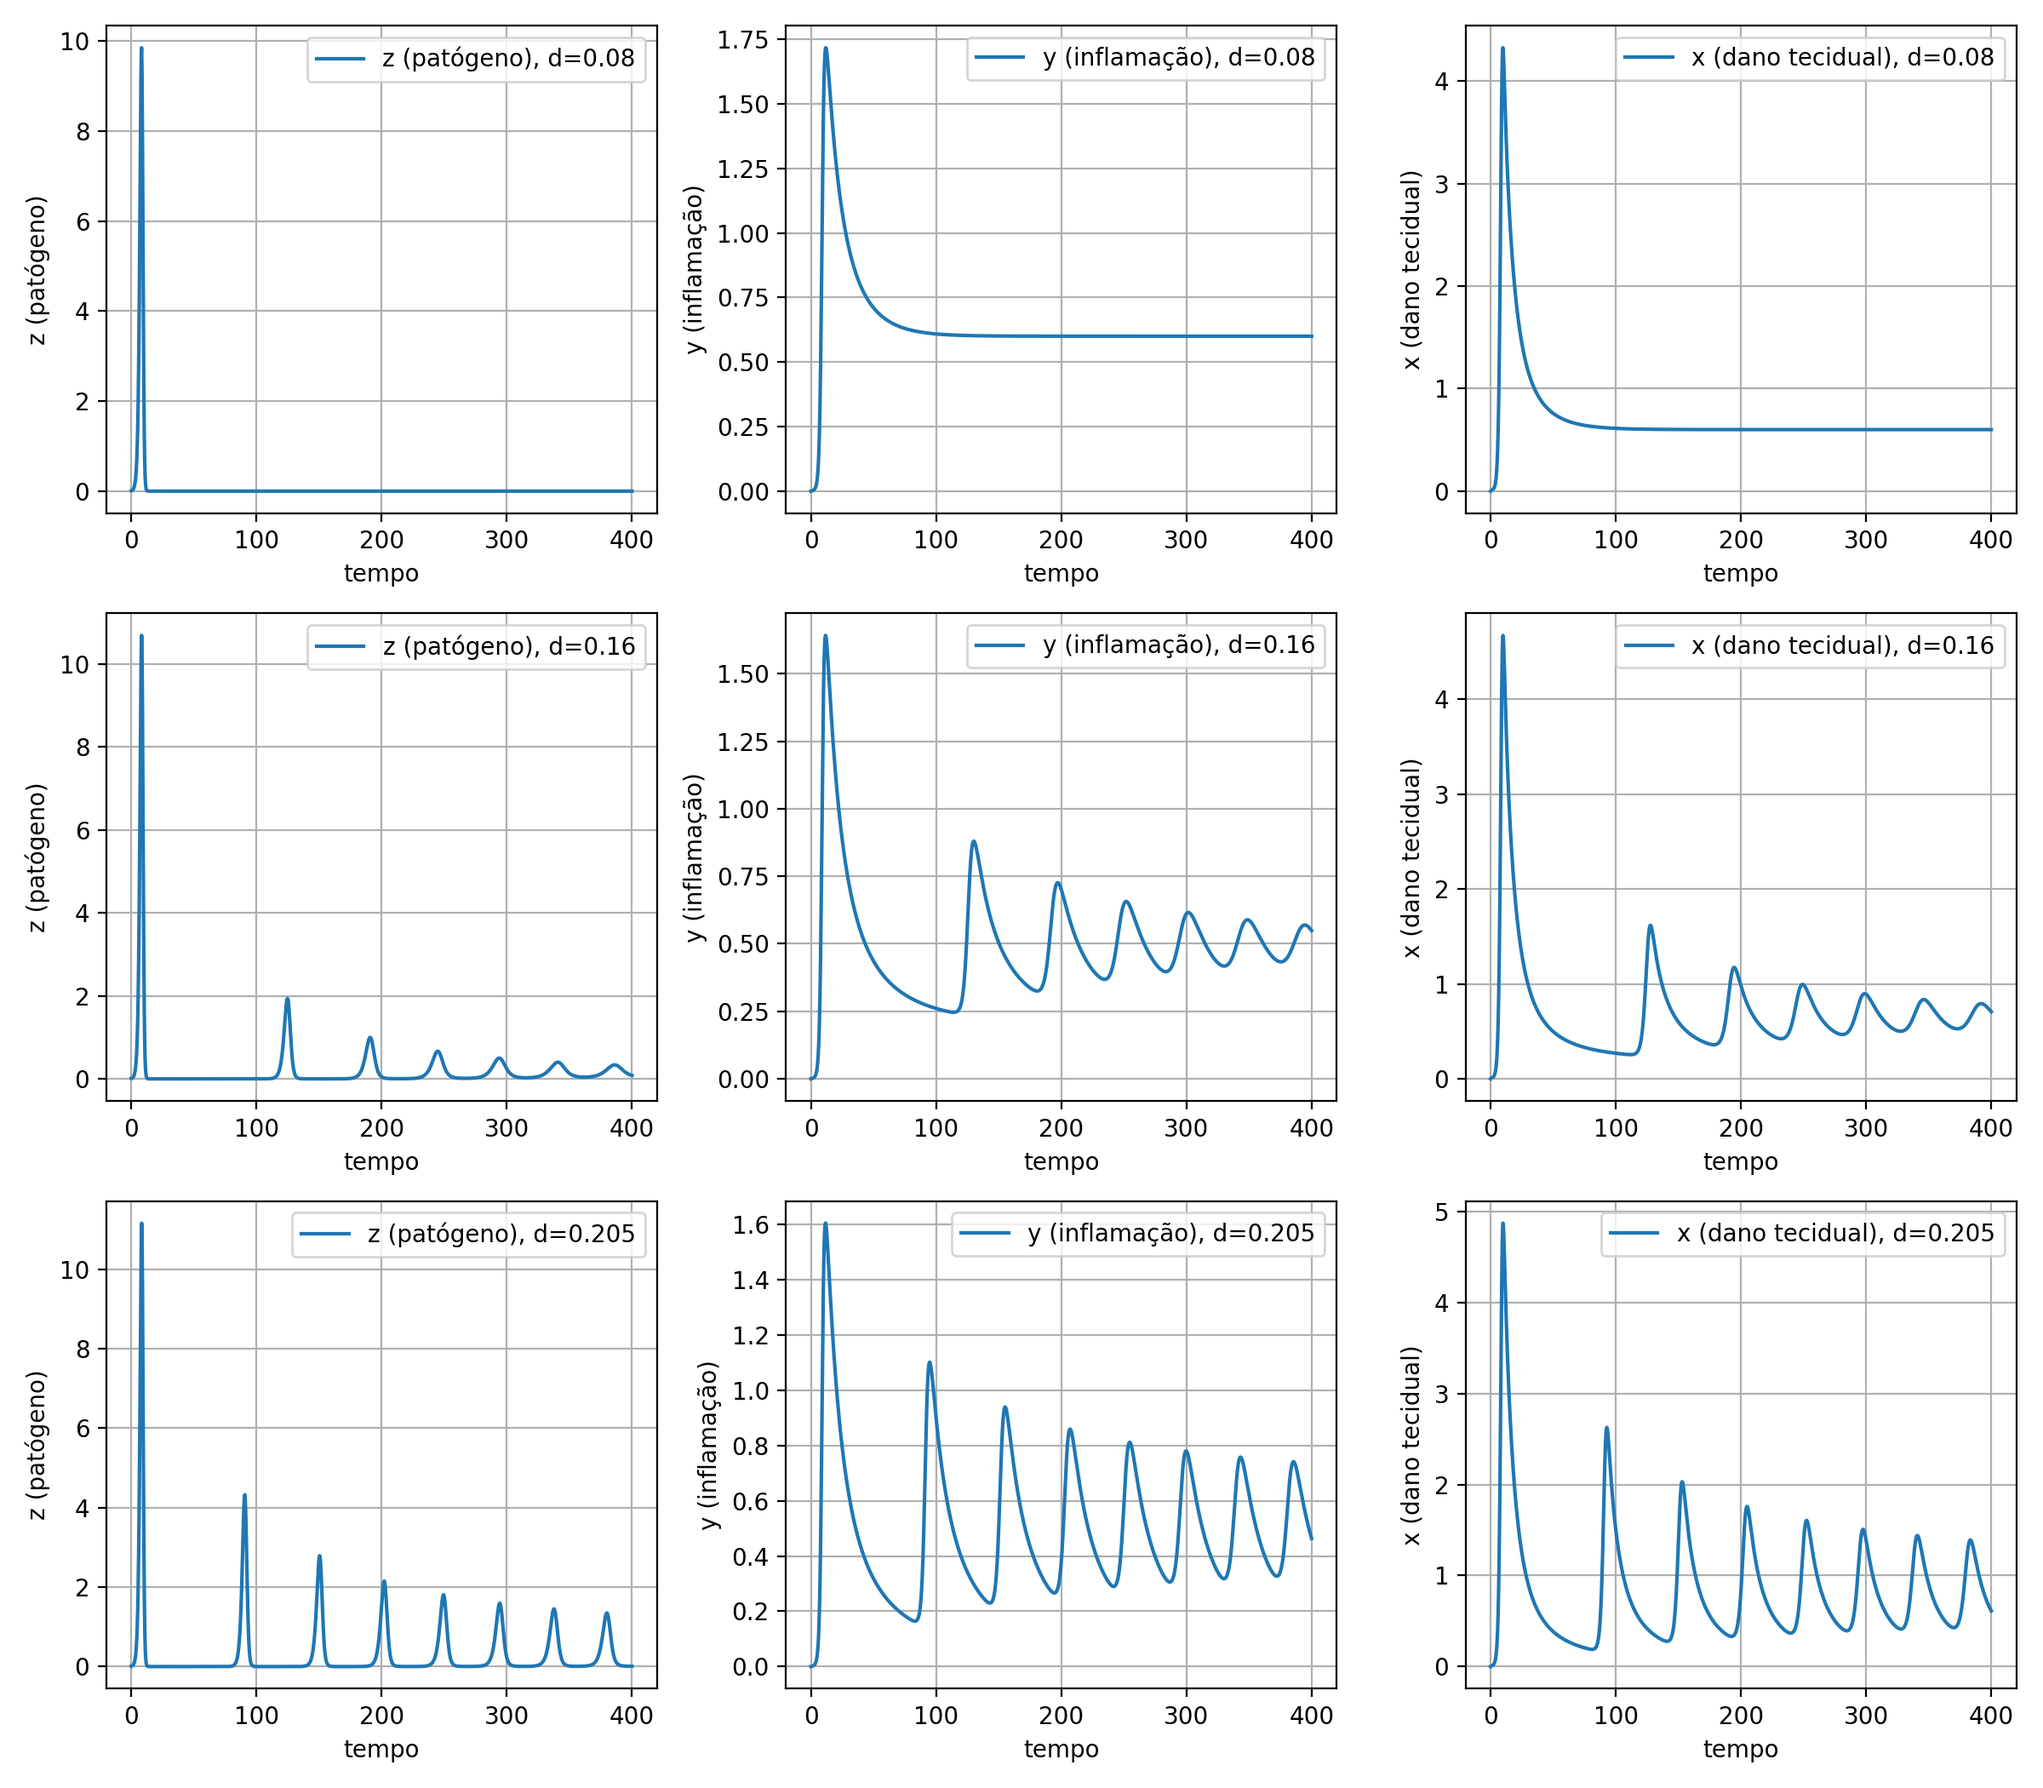
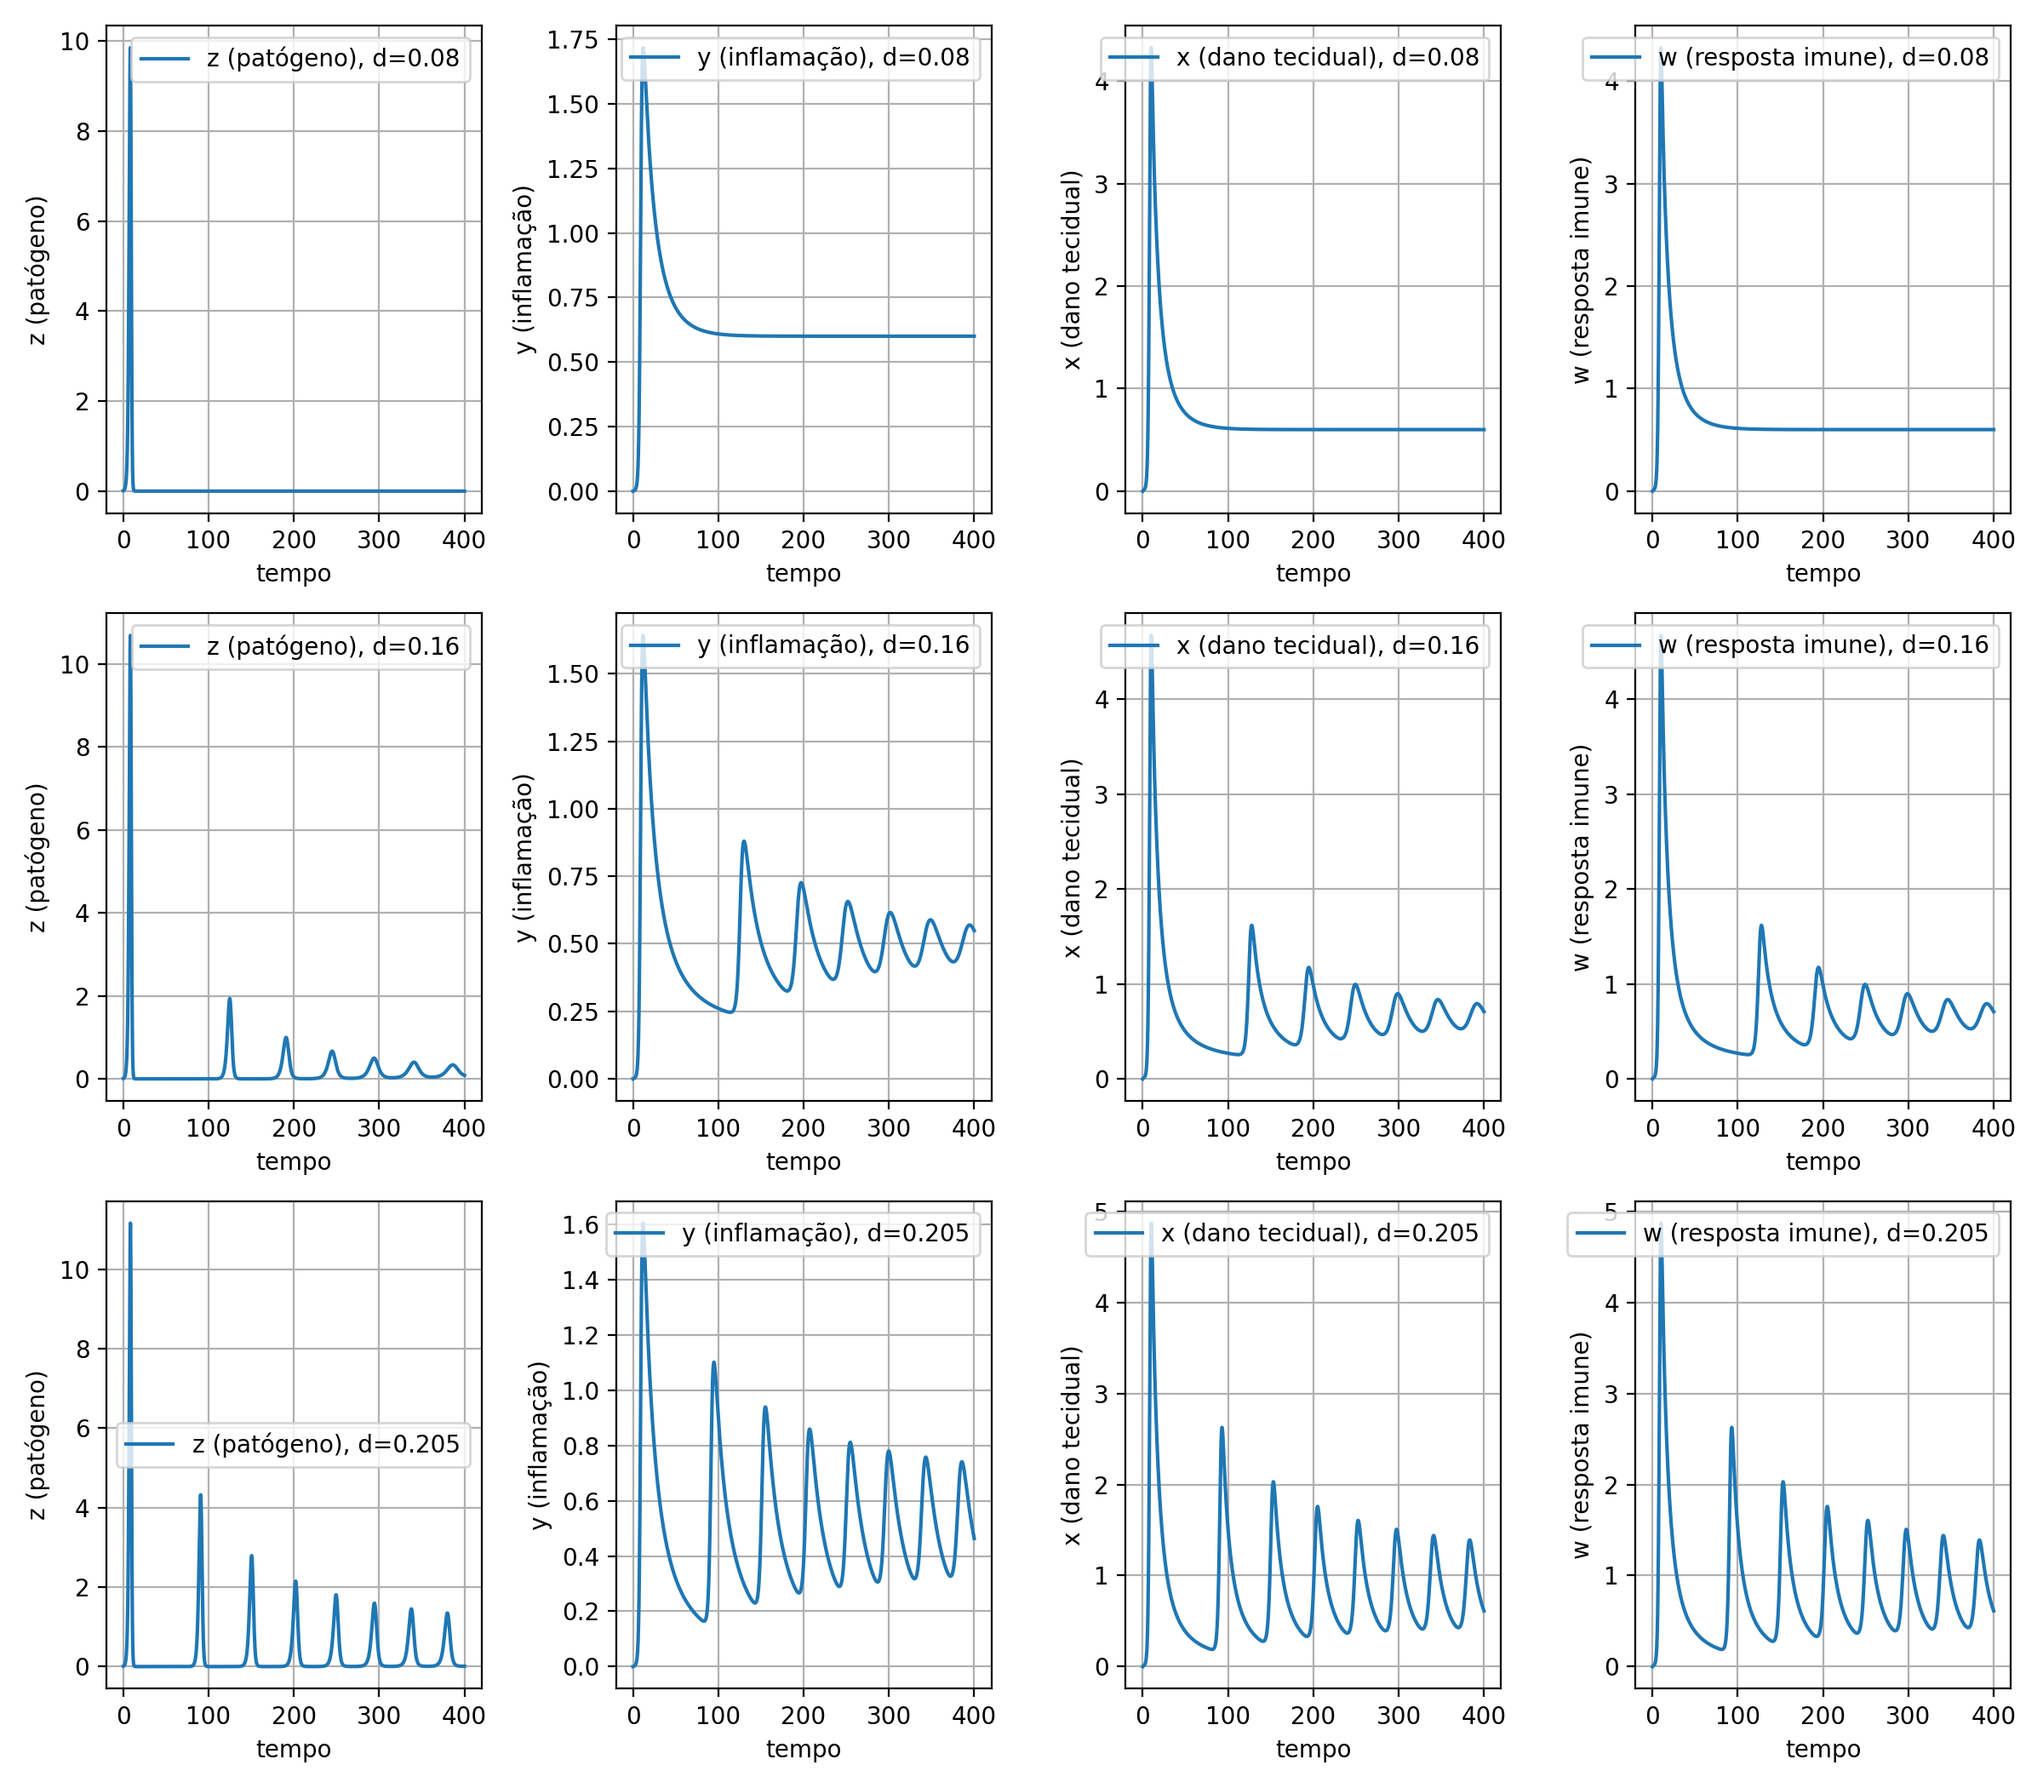
atualizando código para oscilações mais precisas para d = 0.205

diff --git a/Artigo_inflammaging.py b/Artigo_inflammaging.py
@@ -55,7 +55,7 @@ def plot_examples():
     # condições iniciais: pequeno foco de patógeno e zero em w,x,y
     y0 = [0.1, 0.0, 0.0, 0.01]   # w,x,y,z 
     ds = [0.08, 0.16, 0.205]     # valores usados no artigo 
-    fig, axes = plt.subplots(len(ds), 3, figsize=(12, 3.5*len(ds)))
+    fig, axes = plt.subplots(len(ds), 4, figsize=(12, 3.5*len(ds)))
     for i, dval in enumerate(ds):
         p = default_params.copy()
         p['d'] = dval
@@ -82,6 +82,13 @@ def plot_examples():
         ax2.plot(ts, x, label=f'x (dano tecidual), d={dval}')
         ax2.set_xlabel("tempo")
         ax2.set_ylabel("x (dano tecidual)")
+        ax2.grid(True)
+        ax2.legend()
+        
+        ax2 = axes[i,3]
+        ax2.plot(ts, x, label=f'w (resposta imune), d={dval}')
+        ax2.set_xlabel("tempo")
+        ax2.set_ylabel("w (resposta imune)")
         ax2.grid(True)
         ax2.legend()
 

diff --git a/modelo_acoplado.py b/modelo_acoplado.py
@@ -44,7 +44,7 @@ params = {
     'Tkn0': 5e5,
     'B0': 2.5e5,
 
-    'a': 0.2, 'b': 0.2, 'c': 0.2, 'd': 0.205, 'e': 0.2, 'f': 2.0, 'g': 0.2,
+    'a': 0.2, 'b': 0.2, 'c': 0.2, 'd': 0.205, 'e': 0.2, 'f': 8.0, 'g': 0.2,
     'h': 2.0, 'k': 2.0, 'r': 1.0, 's': 0.0, 
 
     'H1': 1e-4, 'H2': 1e-7, 'H3': 1e-8,  
@@ -97,7 +97,7 @@ y0 = [
     0,          # Pl (plasmócitos)
     0,          # Bm (células B de memória)
     150,        # A (anticorpos)
-    0.0,       # w (resposta imune inicial)
+    0.1,       # w (resposta imune inicial)
     0.0,        # x (dano tecidual inicial)
     0.0,        # y_inf (inflamação inicial)
 ]
